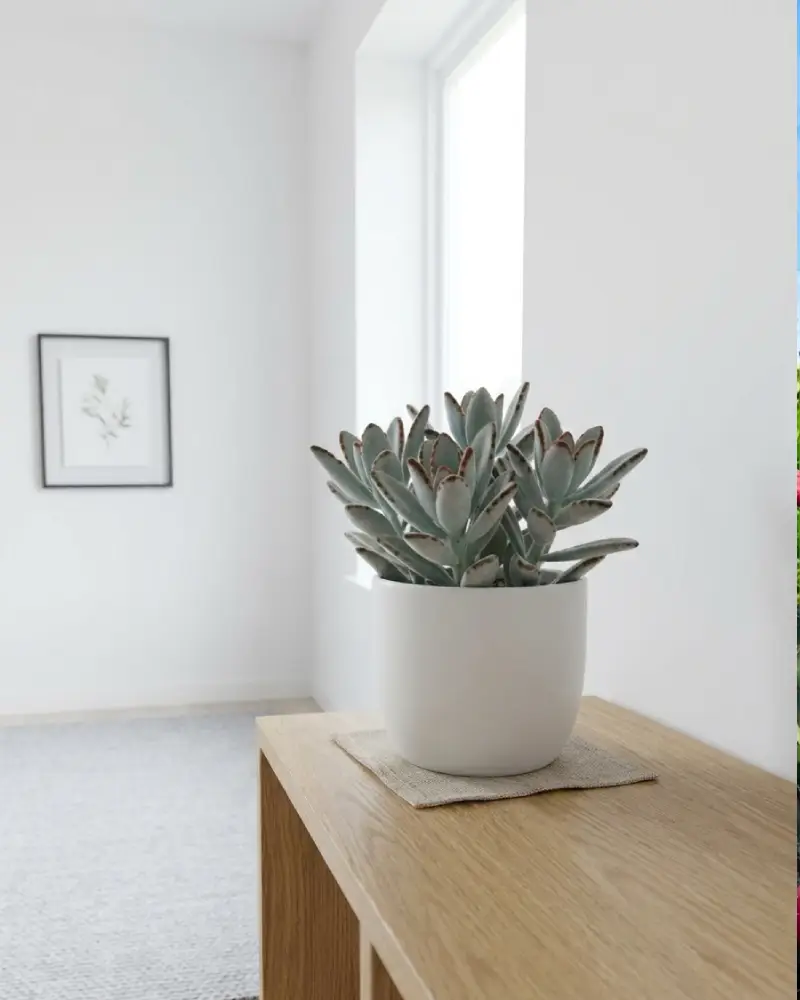
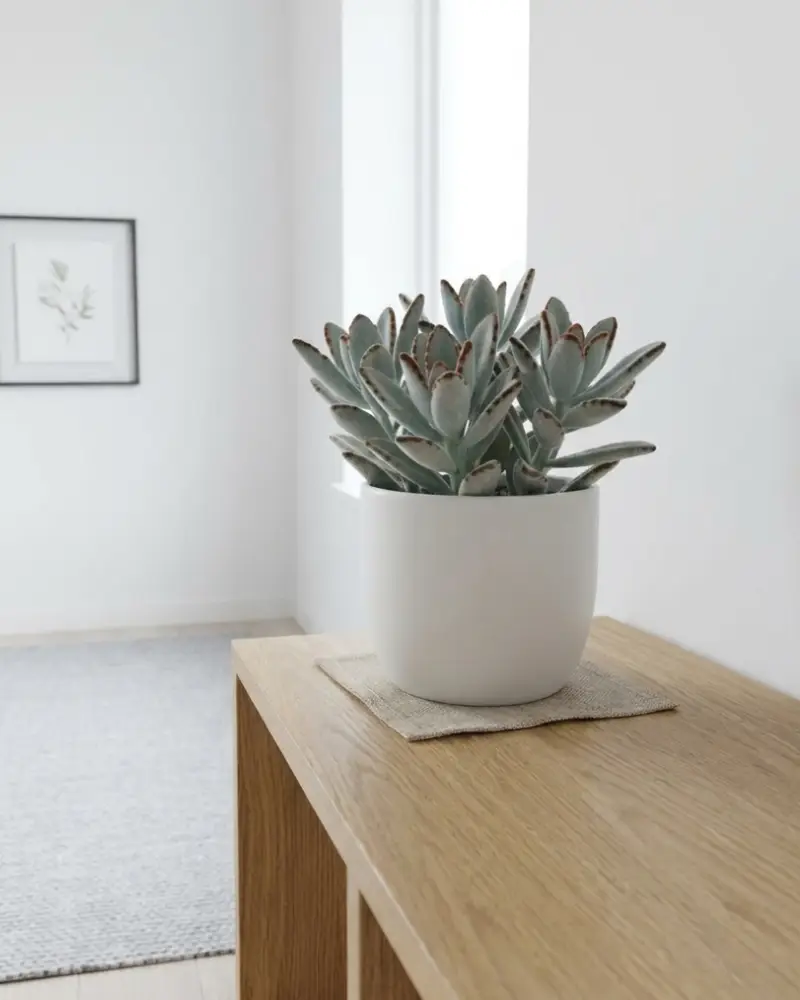
fix(ui): revert scale hack, use properly cropped panda image

diff --git a/src/components/sections/IndoorCollectionGrid.tsx b/src/components/sections/IndoorCollectionGrid.tsx
@@ -78,7 +78,7 @@ export default function IndoorCollectionGrid() {
             <img
               src={item.image}
               alt={item.title}
-              className="absolute inset-0 w-full h-full object-cover transition-transform duration-700 scale-[1.03] group-hover:scale-110"
+              className="absolute inset-0 w-full h-full object-cover transition-transform duration-700 group-hover:scale-105"
               referrerPolicy="no-referrer"
             />
             {/* Dark green leaves overlay */}